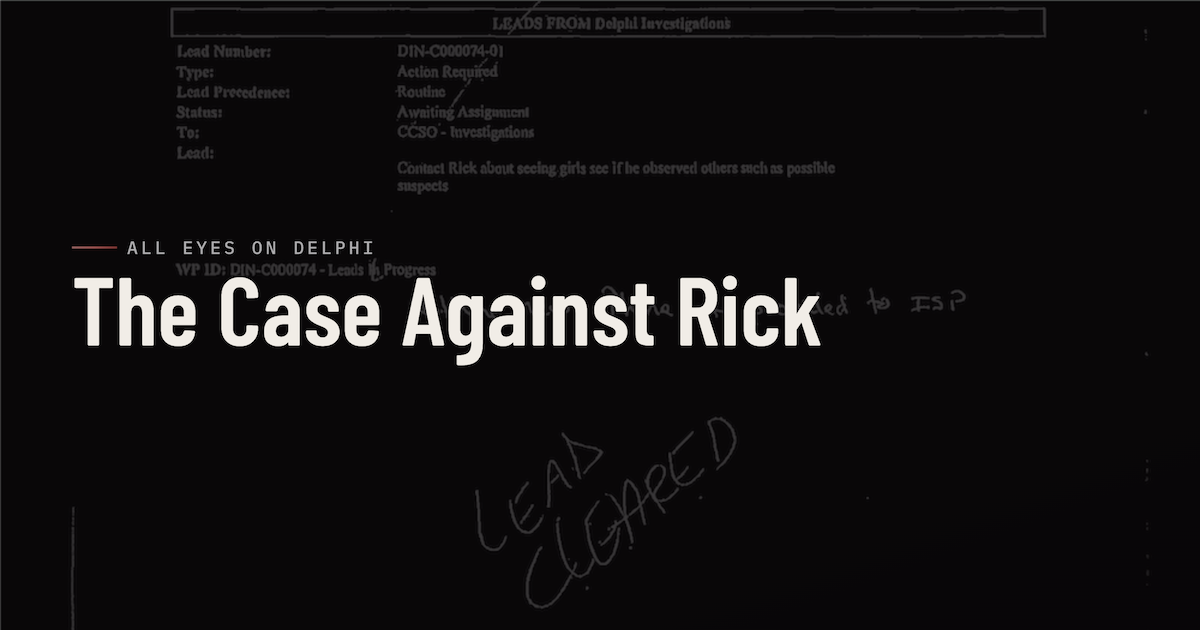
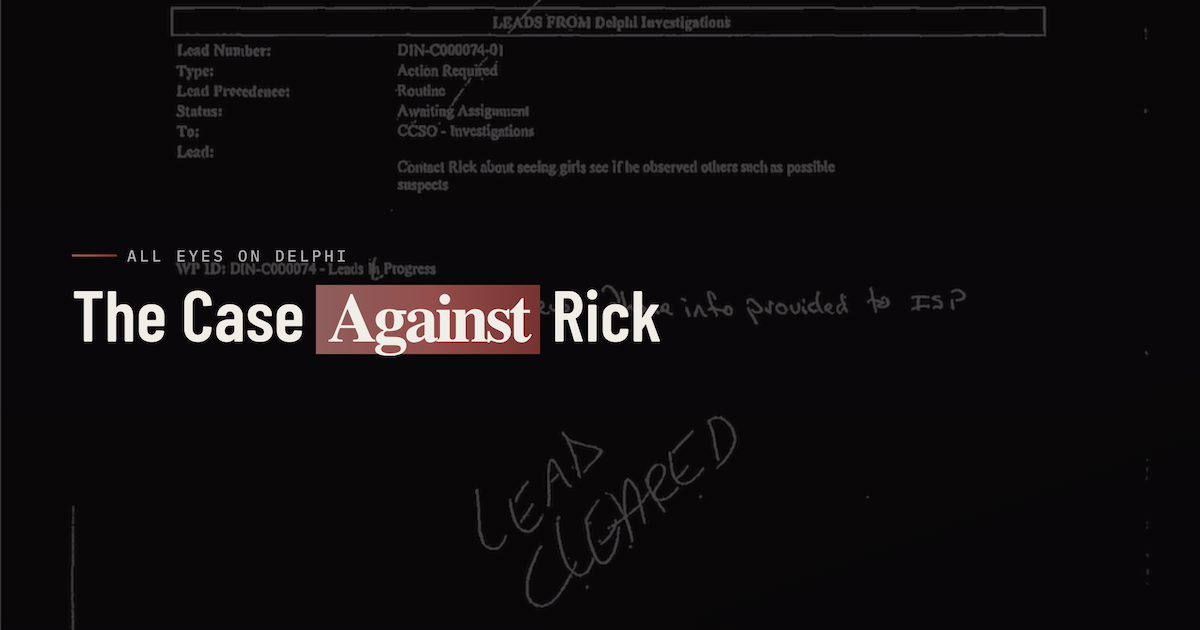
preview img

Changed region(s): [[0.0617, 0.3619, 0.6783, 0.6032], [0.1233, 0.0, 0.8633, 0.0603]]

diff --git a/assets/preview/home-template.html b/assets/preview/home-template.html
@@ -88,9 +88,9 @@
     inset: 0;
     background: linear-gradient(
       160deg,
-      rgba(8, 5, 7, 0.9) 90%,
-      rgba(8, 5, 7, 0.95) 95%,
-      rgba(8, 5, 7, 1) 100%
+      rgba(8, 5, 7, 0.75) 75%,
+      rgba(8, 5, 7, 0.8) 80%,
+      rgba(8, 5, 7, 0.85) 85%
     );
   }
   /* ── Main content ── */
@@ -137,7 +137,7 @@
     font-size: 4.5rem;
     font-weight: 600;
     color: var(--paper);
-    margin-top: 0.5%;
+    margin-top: 1%;
     line-height: 1;
   }
   .sub-head {
@@ -146,8 +146,8 @@
     background: linear-gradient(to left, rgb(129, 46, 46), rgb(159, 74, 74), rgb(150, 91, 91));
     font-family: "Playfair", serif;
     font-weight: 600;
-    font-size: 4.5rem;
-    line-height: 0.85;
+    font-size: 4.3rem;
+    line-height: 1;
     letter-spacing: -0.05em;
     font-style: none;
     padding: 0 1%;
@@ -164,9 +164,9 @@
     <div class="main">
       <div class="cover-eyebrow">
         <div class="eyebrow-rule"></div>
-        <div class="eyebrow-label"><span>(un)</span>Related Docket</div>
+        <div class="eyebrow-label">All Eyes on Delphi</div>
       </div>
-      <div class="cover-head">Michael<span class="sub-head">Jerome</span>James</div>
+      <div class="cover-head">The Case<span class="sub-head">Against</span>Rick</div>
     </div>
 
 </body>
